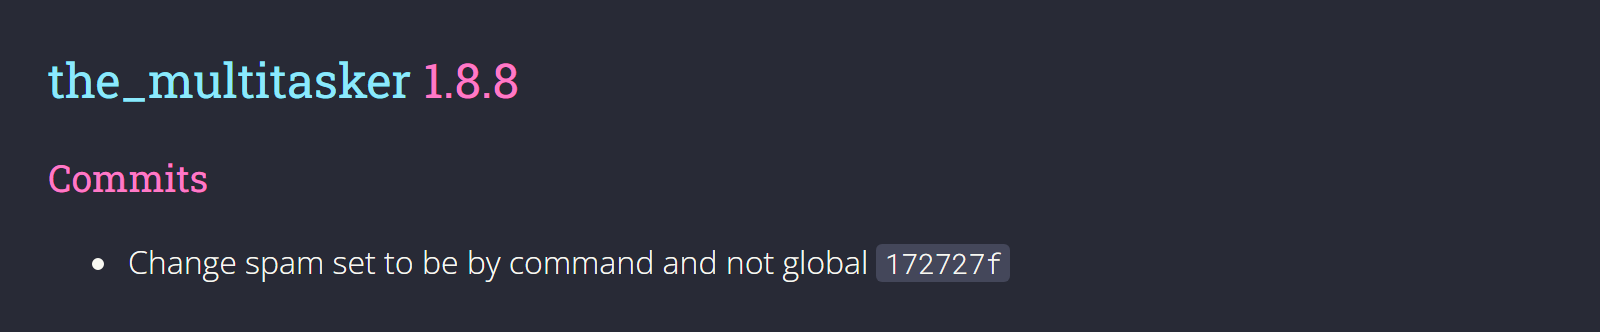
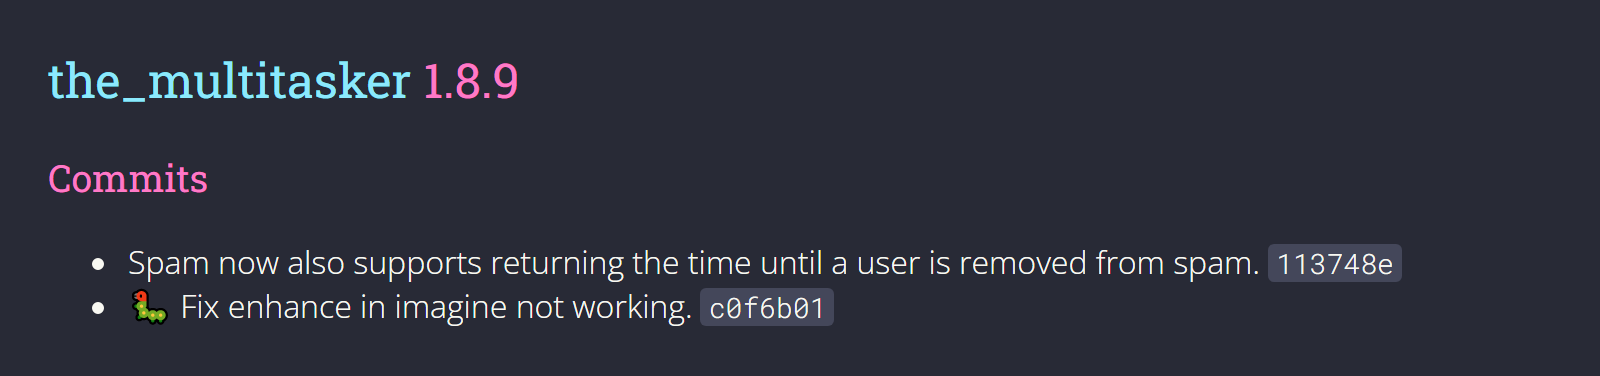
Release 1.8.9

Changed region(s): [[0.0312, 0.6325, 0.875, 0.8735], [0.0312, 0.1506, 0.3438, 0.3012], [0.0312, 0.4217, 0.1562, 0.6024]]

diff --git a/CHANGELOG.md b/CHANGELOG.md
@@ -7,7 +7,18 @@ and this project adheres to [Semantic Versioning](https://semver.org/spec/v2.0.0
 
 Generated by [`auto-changelog`](https://github.com/CookPete/auto-changelog).
 
-## [1.8.8](https://github.com/eyalmichon/TheMultitasker/compare/1.8.7...1.8.8)
+## [1.8.9](https://github.com/eyalmichon/TheMultitasker/compare/1.8.8...1.8.9)
+
+
+
+
+### Commits
+
+- Spam now also supports returning the time until a user is removed from spam. [`113748e`](https://github.com/eyalmichon/TheMultitasker/commit/113748ec9021cd5c62b964d66a7f4398986012a7)
+- 🐛 Fix enhance in imagine not working. [`c0f6b01`](https://github.com/eyalmichon/TheMultitasker/commit/c0f6b01baeb8a4b05e76ea9360a0658e493168ef)
+
+
+## [1.8.8](https://github.com/eyalmichon/TheMultitasker/compare/1.8.7...1.8.8) - 2022-10-22
 
 
 
@@ -15,6 +26,7 @@ Generated by [`auto-changelog`](https://github.com/CookPete/auto-changelog).
 ### Commits
 
 - Change spam set to be by command and not global [`172727f`](https://github.com/eyalmichon/TheMultitasker/commit/172727f16bebbd607136e130c5ec183bbbd311e8)
+- Release 1.8.8 [`dca9cf0`](https://github.com/eyalmichon/TheMultitasker/commit/dca9cf0de72a24638b7e296cc80a2175b4eec582)
 
 
 ## [1.8.7](https://github.com/eyalmichon/TheMultitasker/compare/1.8.6...1.8.7) - 2022-10-21
